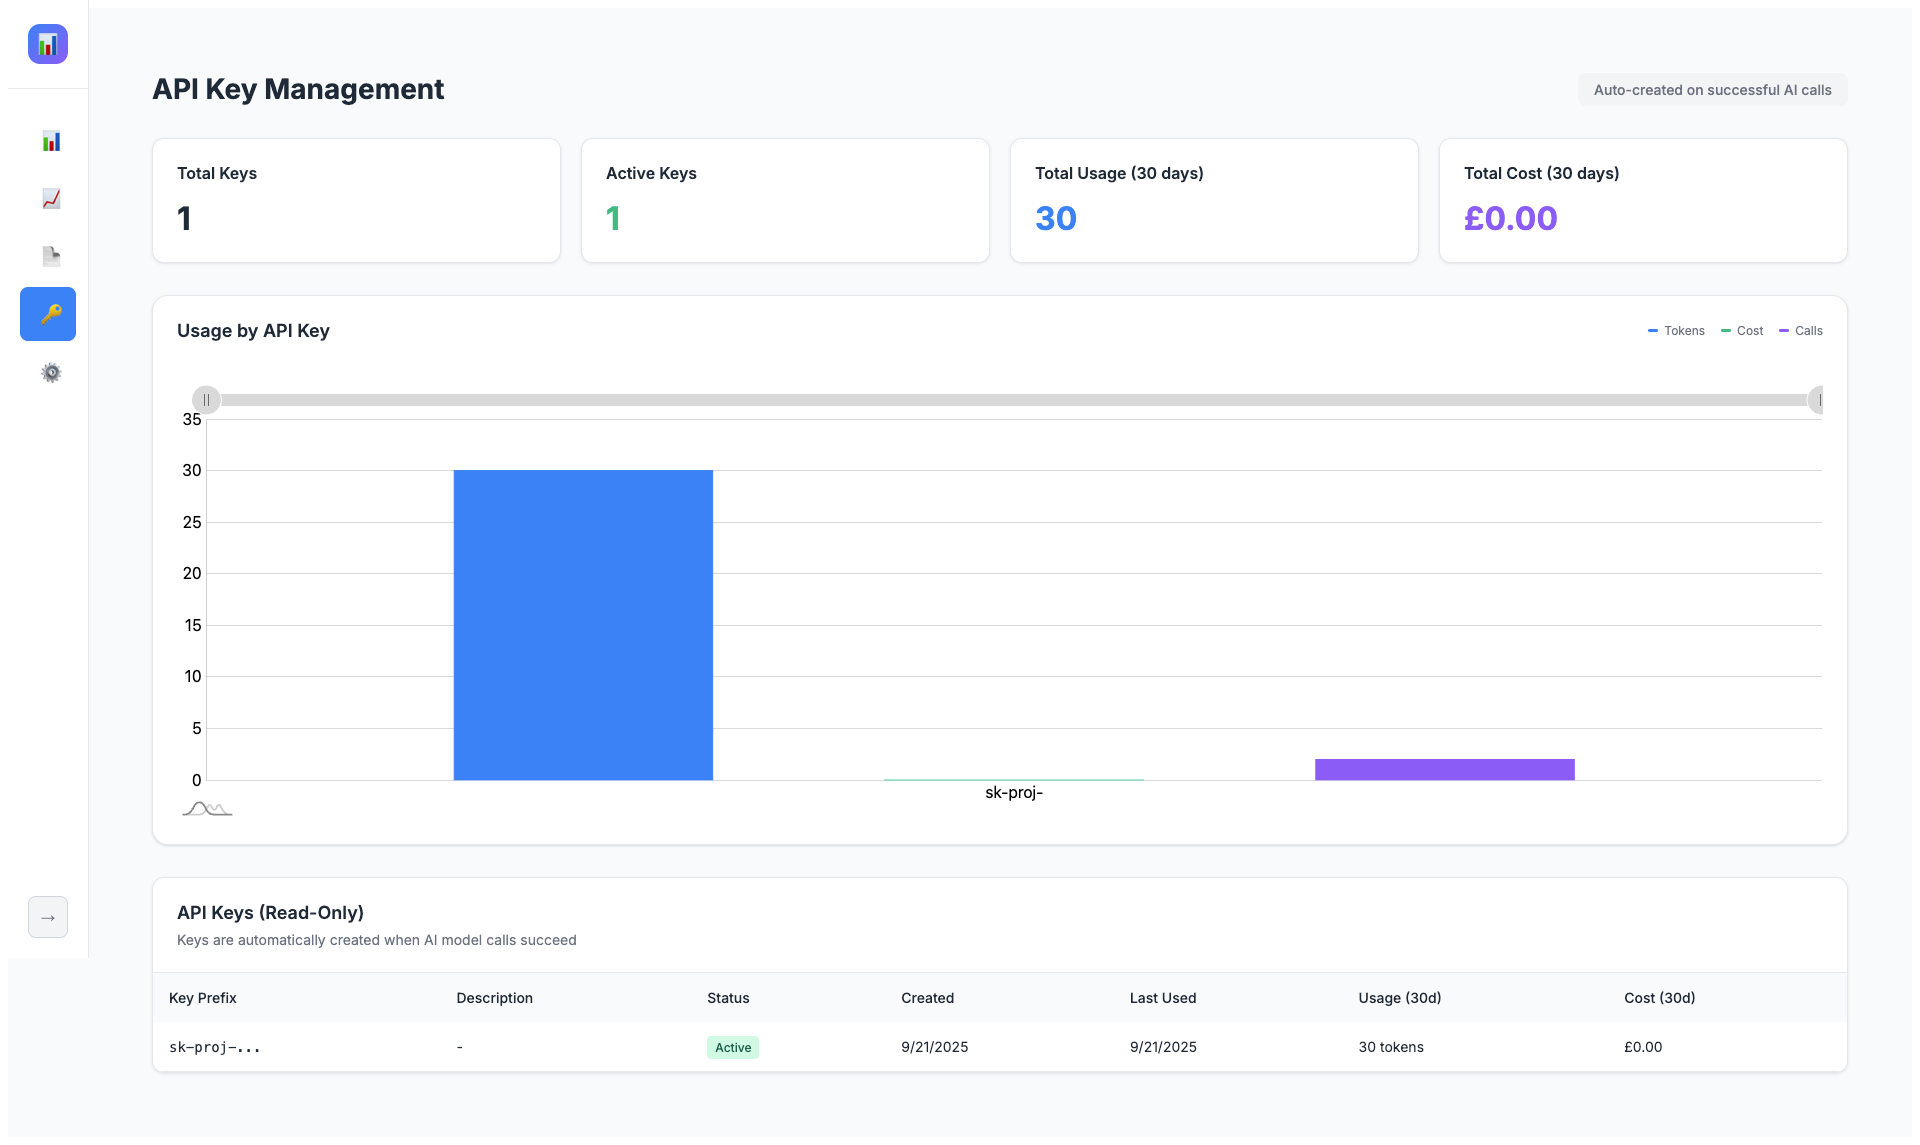
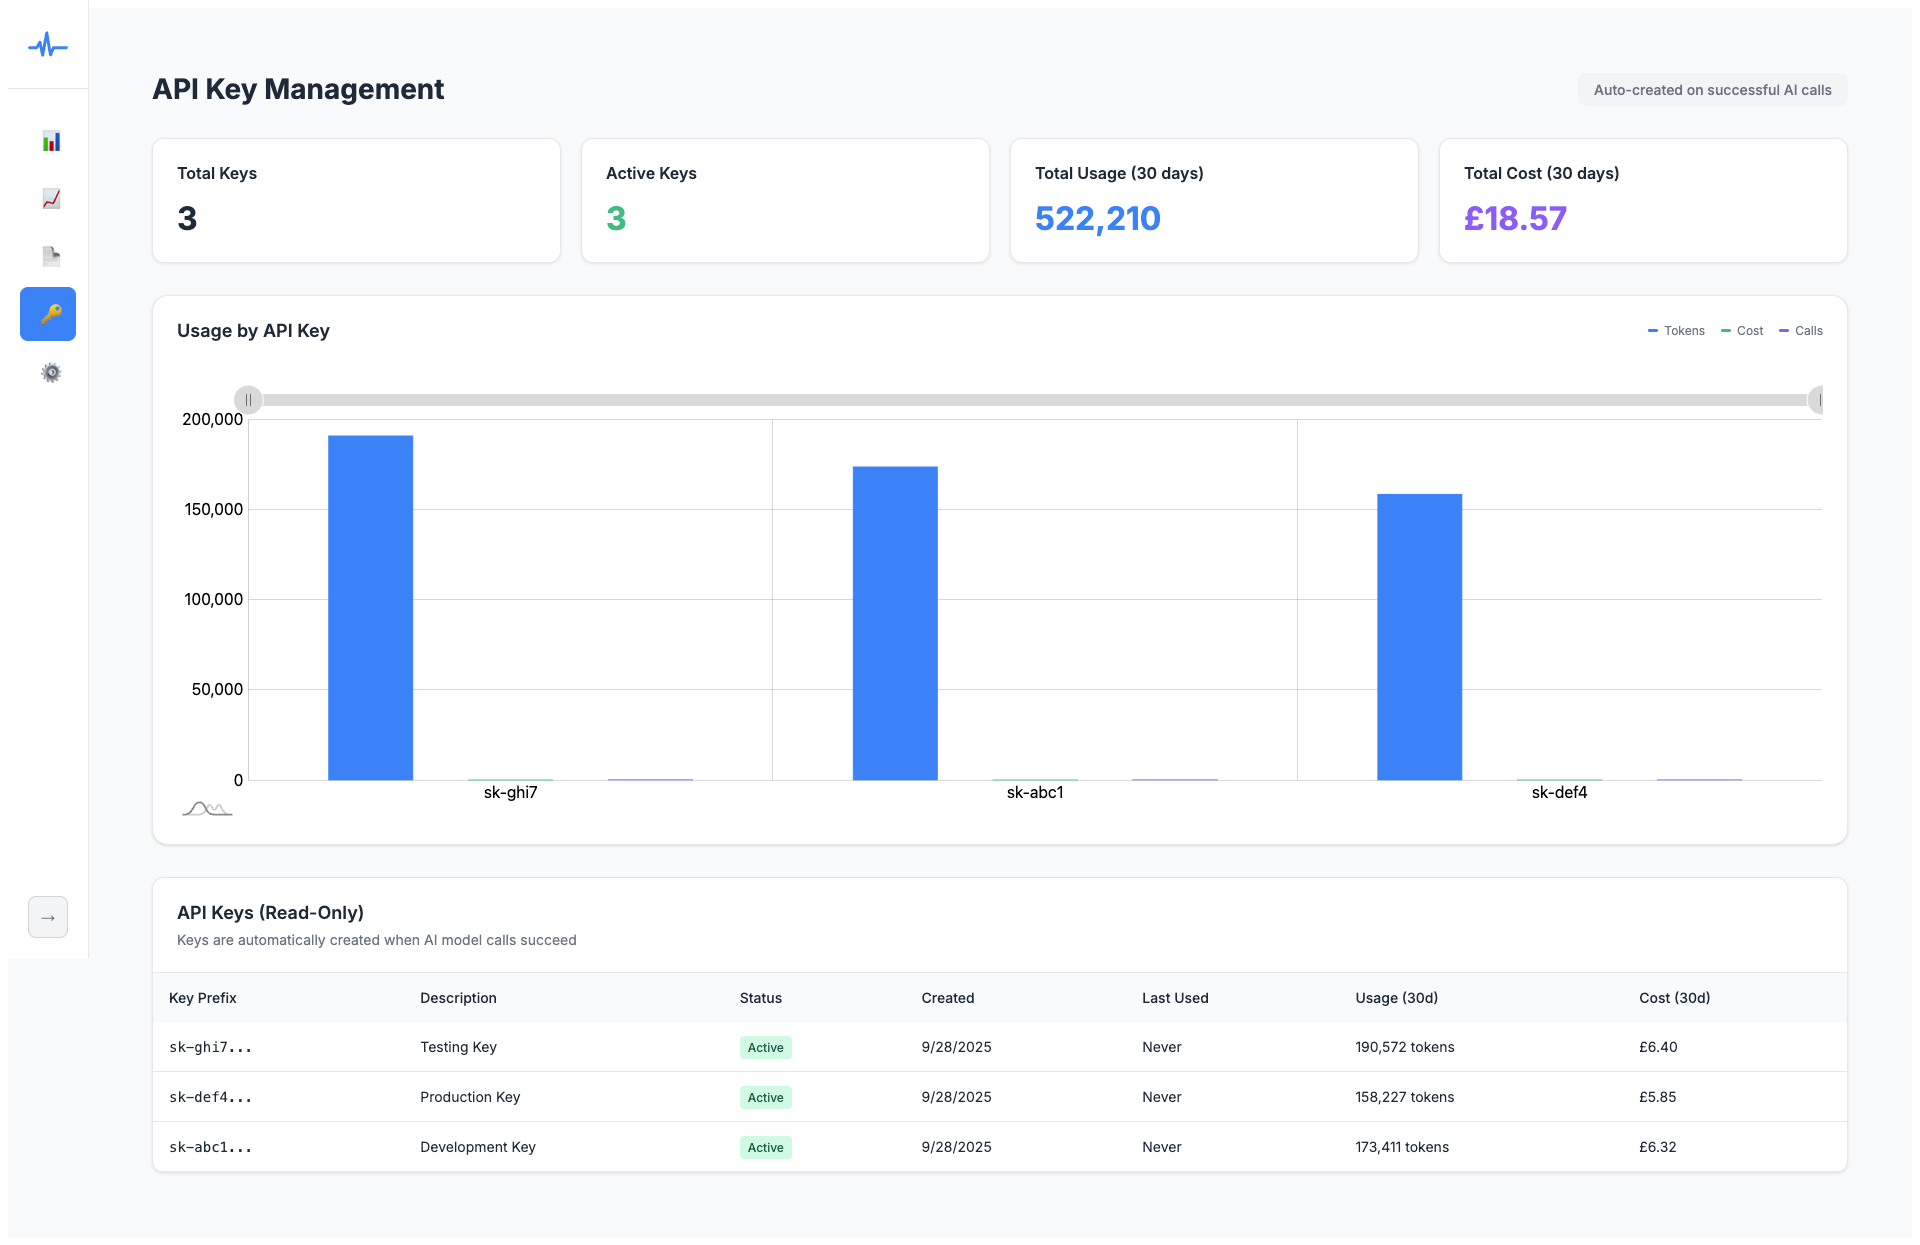
feat: add dummy data seeding and fix database schema compatibility
- Fix seed script to comply with database schema (8-char key_prefix limit)
- Add required key_hash and salt fields for API keys
- Generate 30 days of realistic sample data (305 call logs)
- Add pg dependency for seed script execution
- Update package.json with new dependencies

diff --git a/scripts/seed-sample-data.js b/scripts/seed-sample-data.js
@@ -18,9 +18,9 @@ const dbConfig = {
 
 // Sample API keys
 const sampleApiKeys = [
-  { id: 'key-001', key_prefix: 'sk-abc123', description: 'Development Key' },
-  { id: 'key-002', key_prefix: 'sk-def456', description: 'Production Key' },
-  { id: 'key-003', key_prefix: 'sk-ghi789', description: 'Testing Key' },
+  { id: 'key-001', key_prefix: 'sk-abc1', description: 'Development Key' },
+  { id: 'key-002', key_prefix: 'sk-def4', description: 'Production Key' },
+  { id: 'key-003', key_prefix: 'sk-ghi7', description: 'Testing Key' },
 ];
 
 // Sample models
@@ -98,14 +98,21 @@ async function seedDatabase() {
 
     console.log('Inserting sample API keys...');
     for (const key of sampleApiKeys) {
+      // Generate a deterministic hash for the key prefix
+      const crypto = require('crypto');
+      const keyHash = crypto.createHash('sha256').update(key.key_prefix).digest('hex');
+      const salt = crypto.randomBytes(16).toString('hex');
+      
       await client.query(
         `
-        INSERT INTO api_keys (id, key_prefix, created_at, is_active, description)
-        VALUES ($1, $2, $3, $4, $5)
+        INSERT INTO api_keys (id, key_prefix, key_hash, salt, created_at, is_active, description)
+        VALUES ($1, $2, $3, $4, $5, $6, $7)
       `,
         [
           key.id,
           key.key_prefix,
+          keyHash,
+          salt,
           new Date().toISOString(),
           true,
           key.description,
